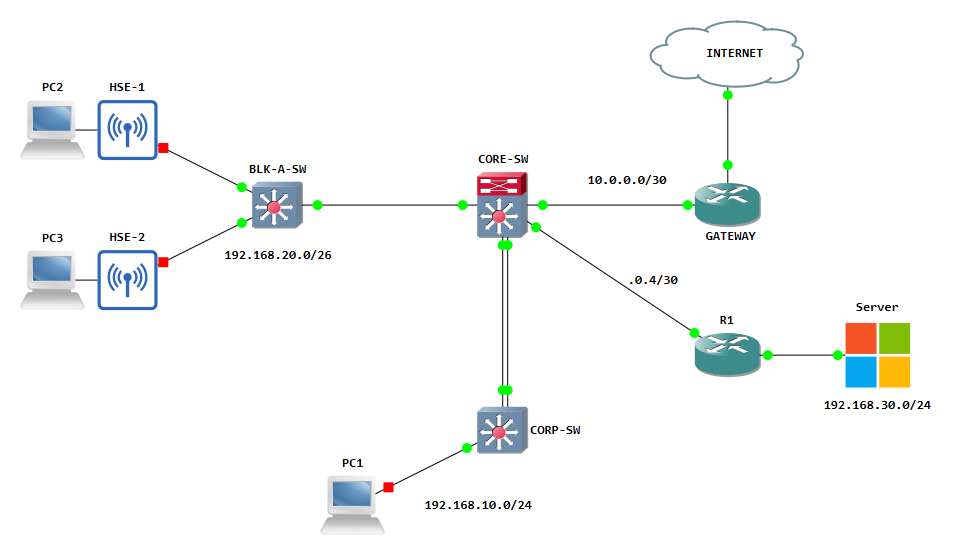
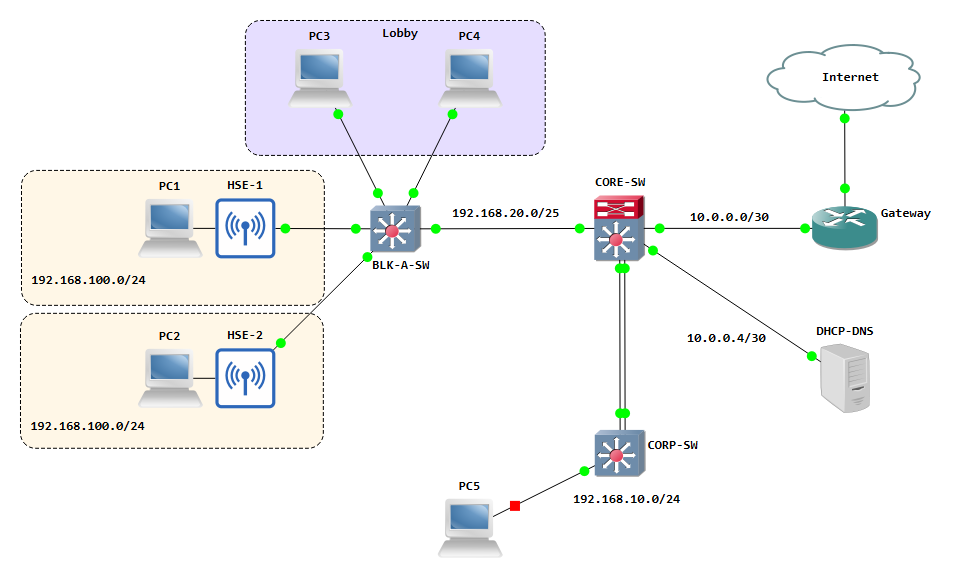
6th May 2026

diff --git a/README.md b/README.md
@@ -30,7 +30,9 @@ You *could* give every flat its own VLAN, but that is not scalable. A 50-flat bu
 
 **Private VLANs solve this.** One primary VLAN handles the addressing and routing. Isolated secondary VLANs under it prevent any lateral communication between tenants — at the access switch level. The hosts never know their neighbors exist. They can only talk upward to the promiscuous port (the core switch SVI), which routes their traffic out.
 
-The corporate segment is a straightforward separate VLAN. DHCP is centralized on a Windows Server 2012 machine sitting in its own network, serving scopes for both the residential block and the corporate floor via DHCP relay.
+The corporate segment is a straightforward separate VLAN. DHCP is centralized.
+
+Cisco router is configured as a DHCP/DNS serve, sitting in its own network, serving scopes for both the residential block and the corporate floor via DHCP relay.
 
 ---
 
@@ -47,12 +49,15 @@ Below is the topology:
 
 | VLAN | Type              | Name        | Subnet             | Purpose                          |
 |------|-------------------|-------------|--------------------|----------------------------------|
-| 10   | Primary PVLAN     | RESIDENTIAL | 192.168.20.0/26    | Residential block addressing     |
+| 20   | Primary PVLAN     | RESIDENTIAL | 192.168.20.0/26    | Residential block addressing       |
 | 200  | Isolated PVLAN    | FLAT-ISO    | (shares VLAN 20)   | Per-flat tenant isolation        |
-| 10   | Standard VLAN     | STAFF       | 192.168.10.0/24    | Corporate staff PCs              |
-| 30   | Standard VLAN     | SERVERS     | 192.168.30.0/24    | DHCP/services server             |
+| 201  | Community VLAN    | LOBBY       | 192.168.20.0/26    | Lobby Devices PCs              |
+| 10   | Standard VLAN     | CORPORATE   | 192.168.20.0/24    | Corporate LAN 
+Server LAN           |
+| -   | DHCP-DNS-DNS FOWARDING           | 10.0.0.6/32        | DHCP/services
 
-> **Note on PVLAN addressing:** Isolated ports in VLAN 200 still use the 192.168.20.0/26 address space. The PVLAN relationship maps VLAN 200 traffic up to primary VLAN 20, so the SVI on CORE-SW only needs one IP for the entire residential block — `192.168.20.0/26`.
+
+> **Note on PVLAN addressing:** Isolated/community ports in VLAN 200 still use the 192.168.20.0/26 address space. The PVLAN relationship maps VLAN 200/201 traffic up to primary VLAN 20, so the SVI on CORE-SW only needs one IP for the entire residential block — `192.168.20.0/26`.
 
 ---
 
@@ -62,29 +67,23 @@ PVLANs introduce a two-level VLAN hierarchy:
 
 - **Primary VLAN (20):** The parent. Defines the IP subnet and carries traffic to/from the promiscuous port (the uplink to CORE-SW).
 - **Isolated VLAN (200):** A secondary VLAN under VLAN 20. Ports in this VLAN can communicate with promiscuous ports only — never with each other, even within the same secondary VLAN.
+- **Community VLAN (201):** Ports in this VLAN can communicate with each other and promiscuous ports only — never with Isolated ports.
 
 In this topology:
 - **HSE-1 and HSE-2 connect to BLK-A-SW on isolated ports** in VLAN 200. This means the two home routers are completely blind to each other at Layer 2.
+- **PC3 and PC4 connect to BLK-A-SW on community ports** in VLAN 201. This means the two PCs can communicate with each other at Layer 2.
 - **BLK-A-SW's uplink to CORE-SW is a promiscuous trunk.** The core switch sees both VLAN 20 and the PVLAN mapping, which allows it to route residential traffic while still enforcing the isolation policy.
-- **CORE-SW has a promiscuous SVI on VLAN 10** (`interface Vlan20`). This is the only destination isolated ports can reach directly — which is exactly what we want.
+- **CORE-SW has a promiscuous SVI on VLAN 10** (`interface Vlan20`). This is the gateway destination isolated ports and Community ports can reach directly out the internet.
 
-The result: Host1 and Host2 share a subnet and share a gateway, but cannot ARP for each other, cannot ping each other, and cannot establish any Layer 2 session directly.
 
-```
-Host1 (192.168.10.10) --[isolated VLAN 200]--> BLK-A-SW
-                                                    |
-                                         [promiscuous trunk]
-                                                    |
-                                    CORE-SW SVI 192.168.20.1  ← only reachable L2 destination
-```
 
 ---
 
-### Corporate Segment (VLAN 20)
+### Corporate Segment (VLAN 10)
 
 PC1 connects to Corp-SW on standard access ports in VLAN 10. This segment (`192.168.10.0/24`) is fully standard — no PVLAN complexity needed here since corporate staff are expected to collaborate and share resources normally.
 
-Inter-VLAN communication from VLAN 10 to VLAN 30 (the server) is permitted and routed by the core switch SVI.
+Inter-VLAN communication from VLAN 10, VLAN 20 to host 10.0.0.6 (the server) is permitted and routed by the core switch SVI.
 
 
 ---
@@ -94,18 +93,16 @@ Inter-VLAN communication from VLAN 10 to VLAN 30 (the server) is permitted and r
 CORE-SW is a Layer 3 switch and does all the heavy lifting:
 
 - **Terminates SVIs** for VLAN 10, and 20 — acting as the default gateway for each segment
-- **PVLAN mapping** — the VLAN 20 SVI is configured as a promiscuous port mapping, allowing it to serve both primary and isolated VLANs
-- **DHCP relay** — `ip helper-address` on each SVI forwards DHCP broadcasts to the server in VLAN 30
-- **Default route** — a static route or routing protocol pointing to the Gateway for internet-bound traffic
-- **Uplink to Gateway** — either a routed L3 link or a trunk, depending on whether NAT lives on the router or somewhere upstream
+- **DHCP relay** — `ip helper-address` on each SVI forwards DHCP broadcasts to the server 10.0.0.6
+- **Dynamic routing** — OSPF is used as the dynamic routing protocol.
 
 ---
 
 ### Gateway / Router
 
-The gateway handles NAT (overload/PAT) for all RFC 1918 traffic going to the internet. In a real deployment this would be where your ISP handoff lives. In this lab it's a simple router with:
-- One interface toward CORE-SW (LAN-facing)
-- One interface toward the internet (WAN-facing)
+The gateway handles NAT (overload/PAT) for all RFC 1918 (private address) traffic going to the internet. 
+- One interface toward CORE-SW (LAN-facing NAT inside)
+- One interface toward the internet (WAN-facing NAT Outside)
 - A `ip nat inside` / `ip nat outside` pair with an overload statement
 
 ---
@@ -115,48 +112,59 @@ The gateway handles NAT (overload/PAT) for all RFC 1918 traffic going to the int
 ### BLK-A-SW — Block Access Switch (PVLAN)
 
 ```ios
-! Define the VLANs
-vlan 10
- name RESIDENTIAL-PRIMARY
- private-vlan primary
 !
 vlan 20
- name RESIDENTIAL VLAN
+ name RESIDENTIAL-VLAN
   private-vlan primary
-  private-vlan association 200
+  private-vlan association 200-201
 !
 vlan 200
   private-vlan isolated
+!
+vlan 201
+  private-vlan community
+!
+!
+policy-map Network-Access-Policy
+ class class-default
+  police cir 1000000 conform-action transmit  exceed-action drop
+!
 !
 interface Ethernet0/0
  switchport private-vlan host-association 20 200
  switchport mode private-vlan host
  spanning-tree portfast edge
  spanning-tree bpduguard enable
+ service-policy input Network-Access-Policy
+ service-policy output Network-Access-Policy
 !
 interface Ethernet0/1
  switchport private-vlan host-association 20 200
  switchport mode private-vlan host
  spanning-tree portfast edge
  spanning-tree bpduguard enable
+ service-policy input Network-Access-Policy
+ service-policy output Network-Access-Policy
 !
-interface Ethernet0/2
- switchport private-vlan host-association 20 200
+interface Ethernet3/0
+ switchport private-vlan host-association 20 201
  switchport mode private-vlan host
- spanning-tree portfast edge
- spanning-tree bpduguard enable
+ service-policy input Network-Access-Policy
+ service-policy output Network-Access-Policy
 !
-interface Ethernet0/3
- switchport private-vlan host-association 20 200
+interface Ethernet3/1
+ switchport private-vlan host-association 20 201
  switchport mode private-vlan host
- spanning-tree portfast edge
- spanning-tree bpduguard enable
+ service-policy input Network-Access-Policy
+ service-policy output Network-Access-Policy
+!
+interface Ethernet3/2
+ shutdown
 !
 interface Ethernet3/3
- switchport private-vlan mapping 20 200
+ switchport private-vlan mapping 20 200-201
  switchport mode private-vlan promiscuous
 
- switchport private-vlan mapping 10 110
 ```
 
 > **Important:** PVLAN configuration requires VTP to be in **Transparent mode** on all switches participating in the private VLAN — VTP will not propagate PVLAN config correctly in Server/Client mode.
@@ -171,16 +179,18 @@ vtp mode transparent
 ### CORE-SW — Layer 3 Switch
 
 ```ios
-! vlan 10
- name CORPORATE VLAN
 !
 vlan 20
- name RESIDENTIAL VLAN
+ name RESIDENTIAL-VLAN
   private-vlan primary
-  private-vlan association 200
+  private-vlan association 200-201
 !
 vlan 200
   private-vlan isolated
+!
+vlan 201
+  private-vlan community
+!
 !
 interface Port-channel1
  switchport trunk allowed vlan 10
@@ -202,7 +212,7 @@ interface Ethernet0/1
 !
 interface Ethernet2/0
  description LINK TO RESIDENTIAL BLOCK ONLY!
- switchport private-vlan mapping 20 200
+ switchport private-vlan mapping 20 200,201
  switchport mode private-vlan promiscuous
 
 !
@@ -222,13 +232,13 @@ interface Ethernet3/3
 interface Vlan10
  description CORPORATE VLAN SVI
  ip address 192.168.10.1 255.255.255.0
- ip helper-address 192.168.30.254
+ ip helper-address 10.0.0.6
  ip ospf 1 area 0
 !
 interface Vlan20
  description RESIDENTIAL VLAN SVI
  ip address 192.168.20.1 255.255.255.192
- ip helper-address 192.168.30.254
+ ip helper-address 10.0.0.6
  ip ospf 1 area 20
 !
 router ospf 1
@@ -236,6 +246,7 @@ router ospf 1
  auto-cost reference-bandwidth 100000
  passive-interface Vlan10
  passive-interface Vlan20
+ passive-interface Ethernet3/2
 !
 
 ```
@@ -270,10 +281,41 @@ router ospf 1
 ip nat inside source list nat-acl interface Ethernet0/3 overload
 !
 ip access-list standard nat-acl
- permit 192.168.30.254
- permit 192.168.20.0 0.0.0.63
- permit 192.168.10.0 0.0.0.255
+ permit ip 192.168.20.0 0.0.0.127 any
+ permit ip 192.168.10.0 0.0.0.255 any
+ permit ip host 10.0.0.6 any
 
 ```
+## Configuration Snippet of the DNS/DHCP server
 
+```ios
+!
+ip dhcp excluded-address 192.168.20.1 192.168.20.10
+ip dhcp excluded-address 192.168.10.1 192.168.10.10
+!
+ip dhcp pool RESIDENTIAL-DHCP-POOL
+ network 192.168.20.0 255.255.255.128
+ default-router 192.168.20.1
+ dns-server 10.0.0.6
+ lease 0 3
+
+ip dhcp pool CORPORATE-DHCP-POOL
+ network 192.168.10.0 255.255.255.0
+ default-router 192.168.10.1
+ dns-server 10.0.0.6
+ lease 0 3
+!
+!
+!
+ip name-server 8.8.8.8
+ip name-server 8.8.4.4
+!
+interface Ethernet0/0
+ ip address 10.0.0.6 255.255.255.252
+ no ip route-cache
+ duplex auto
+!
+ip default-gateway 10.0.0.5
+!
+ip dns server
 ---
